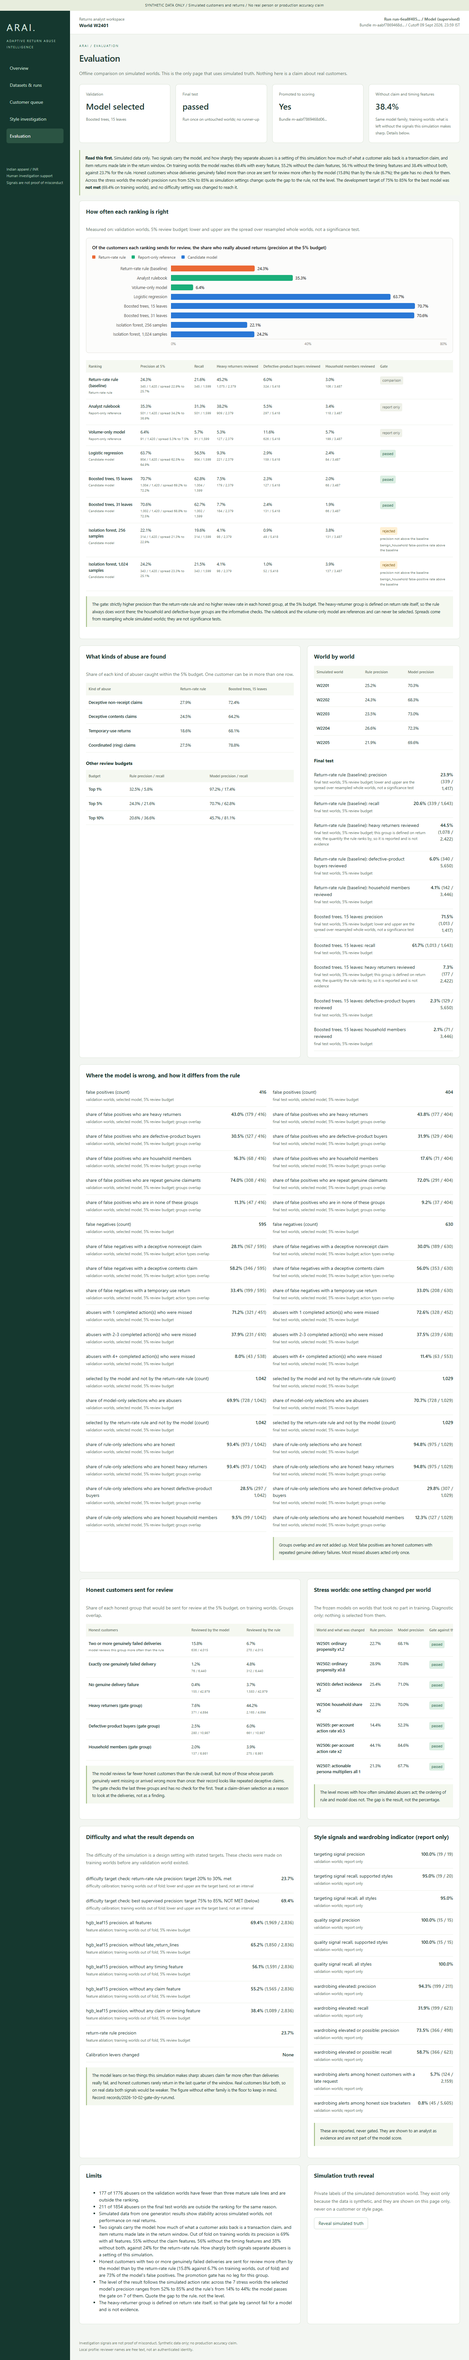
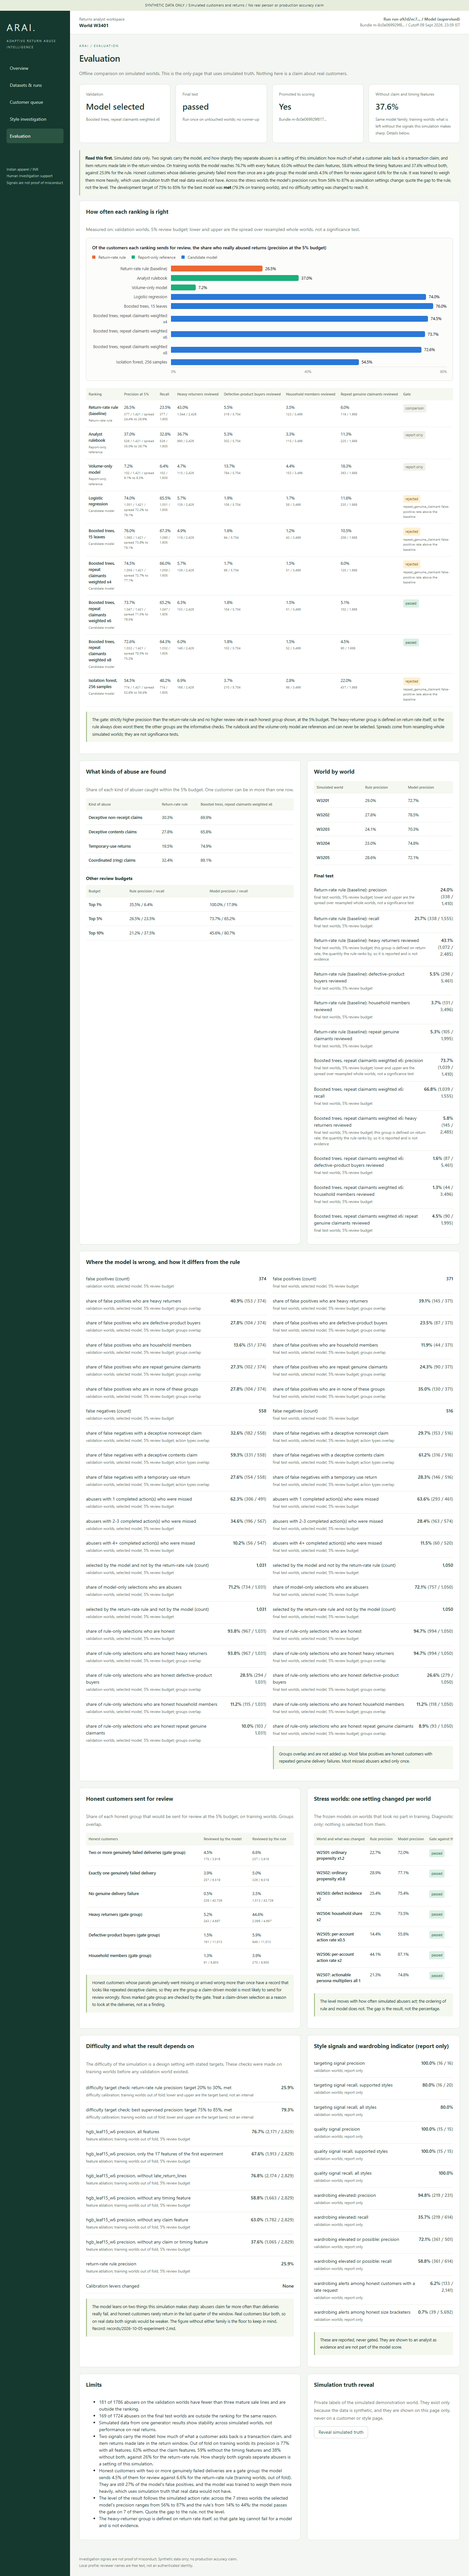
Experiment 2 passed its final test; record, published result and walkthrough
EXP-20261005-02, run under the contract of a7b79aa with no uncommitted
change: hgb_leaf15_w6 (boosted trees, 43 features, honest repeat genuine
claimants weighted six times in training) was selected on validation at .737
against .265 for the return-rate rule and passed the single final test at
.737 against .240, with all four gate legs met. Honest repeat claimants are
reviewed at 4.5% against 5.3% for the rule on the test worlds and are 24% of
the model's false positives (72% in the first experiment). The unweighted
candidates and the one weighted four times were rejected on the new leg.

The 0.75-0.85 development target is met on the out-of-fold training scores
it is defined on (.793 best candidate, .767 selected) with no calibration
lever changed, and not on validation or test; AM-45 stays open for the owner.

Record: records/2026-10-05-experiment-2.md. README results, acceptance
evidence for FEAT-AC-09, TRAIN-AC-06 and SEL-AC-07, and the browser
walkthrough against the new experiment (47 of 47 checks). 179 pytest.

Claude-Session: https://claude.ai/code/session_01AR1kbGnR365dbJxWoPjiW8

diff --git a/tests/e2e/walkthrough.py b/tests/e2e/walkthrough.py
@@ -172,11 +172,14 @@ with sync_playwright() as pw:
         "Isolation forest, 256 samples")))
     check("evaluation shows the error account and the calibration disclosure", "share of false positives" in text and "difficulty target check" in text)
     check("evaluation discloses the timing dependence", "without any timing feature" in text)
-    check("evaluation leads with both dependences and the honest group the model reviews more often",
-          "without the claim features" in text and "the gate has no check for them" in text and "quote the gap to the rule" in text)
+    check("evaluation leads with both dependences and says how honest repeat claimants are treated",
+          "without the claim features" in text and "quote the gap to the rule" in text
+          and any(phrase in text for phrase in ("are a gate group", "the gate has no check for them", "the gate checks this group")))
     check("evaluation shows honest-group review rates and the stress worlds",
-          "Two or more genuinely failed deliveries" in text and "model reviews this group more often than the rule" in text
+          "Two or more genuinely failed deliveries" in text and "Reviewed by the model" in text
           and "W2505: per-account action rate x0.5" in text and "W2506: per-account action rate x2" in text)
+    check("the scorecard shows every gate group of the experiment",
+          all(heading in text for heading in ("Heavy returners reviewed", "Household members reviewed", "Repeat genuine claimants reviewed")))
     check("truth is hidden until asked for", "Reveal simulated truth" in text and "abused returns in the simulation" not in text)
     shot(page, "10-evaluation")
     page.get_by_role("button", name="Reveal simulated truth").click()

diff --git a/records/2026-10-05-experiment-2.md b/records/2026-10-05-experiment-2.md
@@ -1,0 +1,143 @@
+# Experiment 2 (EXP-20261005-02): gate dry run, selection and the final test (2026-10-05)
+
+Contract: specification 2.0, decisions AM-45 to AM-48, recorded in commit a7b79aa before any world of this
+experiment existed. Every record below carries that commit with no uncommitted change, the scoring-code hash
+`b5a035cb34...`, the generator-code hash of the first experiment (the simulator is unchanged) and the manifest
+hashes of the worlds it used.
+
+What is new against EXP-20261002-01: fresh seeds for every world set; 43 features (the first 17 unchanged);
+candidates that weight honest repeat genuine claimants in training; a fourth gate leg for that group. How these
+were arrived at is in `2026-10-05-experiment-2-exploration.md`. No calibration lever was changed.
+
+All figures are precision at the 5% review budget unless stated. "Repeat claimants" means honest eligible
+customers with two or more genuinely failed units; the figure is the share of them sent for review.
+
+## 1. Gate dry run (training worlds W3101-W3110, out of fold)
+
+Recorded 2026-10-05T09:40:00Z, before any validation world existed.
+
+| Ranking | Precision | Recall | Heavy returners | Defective buyers | Households | Repeat claimants | Gate |
+|---|---|---|---|---|---|---|---|
+| Return-rate rule | 0.259 | 0.222 | 44.6% | 5.9% | 3.9% | 6.6% | reference |
+| logreg_c1 | 0.754 | 0.647 | 4.9% | 1.9% | 1.5% | 11.3% | fails the new leg |
+| hgb_leaf15 | 0.793 | 0.680 | 4.2% | 1.7% | 1.3% | 9.6% | fails the new leg |
+| hgb_leaf15_w4 | 0.781 | 0.670 | 4.9% | 1.4% | 1.2% | 5.2% | passes |
+| hgb_leaf15_w6 | 0.767 | 0.658 | 5.2% | 1.5% | 1.3% | 4.5% | passes |
+| hgb_leaf15_w8 | 0.759 | 0.651 | 5.5% | 1.5% | 1.2% | 4.0% | passes |
+| iforest_256 (in sample) | 0.538 | 0.461 | 6.8% | 3.9% | 2.5% | 21.3% | fails the new leg |
+| analyst rulebook (reference) | 0.375 | 0.322 | 37.0% | 5.5% | 3.8% | 11.4% | report only |
+| volume only (reference) | 0.078 | 0.067 | 4.5% | 14.4% | 5.1% | 19.0% | report only |
+
+**Development target (AM-45).** The target is defined on these scores: return-rate rule 0.20-0.30, best supervised
+candidate 0.75-0.85. Achieved: rule 0.259, best supervised candidate 0.793. Both are inside the band, with no
+calibration lever changed; the gain over the first experiment's 0.694 comes from the 26 new features. The best
+candidate that also passes the gate is `hgb_leaf15_w4` at 0.781, also inside the band. These training worlds are
+a little easier than the first experiment's (rule 0.259 against 0.237), which accounts for about two points.
+
+## 2. What the result depends on (training worlds, out of fold, selected candidate)
+
+| `hgb_leaf15_w6` with | Precision |
+|---|---|
+| all 43 features | 0.767 |
+| only the 17 features of the first experiment | 0.676 |
+| without any timing feature | 0.588 |
+| without any claim feature | 0.630 |
+| without any claim or timing feature | 0.376 |
+| (return-rate rule) | 0.259 |
+
+Honest groups sent for review, model against rule: repeat claimants 4.5% against 6.6%; one genuine failure 3.9%
+against 5.0%; no genuine failure 0.5% against 3.5%; heavy returners 5.2% against 44.6%; defective buyers 1.5%
+against 5.9%; households 1.3% against 3.9%. Repeat claimants are 27% of the model's false positives (12% of the
+rule's); in the first experiment they were 73%.
+
+## 3. Stress worlds (frozen estimators, diagnostic)
+
+| World | Rule | hgb_leaf15 | w4 | w6 | w8 |
+|---|---|---|---|---|---|
+| W2501 ordinary propensity x1.2 | 0.227 | 0.762 fails | 0.734 | 0.720 | 0.720 |
+| W2502 ordinary propensity x0.8 | 0.289 | 0.799 fails | 0.796 | 0.771 | 0.775 |
+| W2503 defect incidence x2 | 0.254 | 0.764 fails | 0.761 | 0.754 | 0.754 |
+| W2504 household share x2 | 0.223 | 0.753 fails | 0.739 | 0.735 | 0.725 |
+| W2505 action rate x0.5 | 0.144 | 0.579 fails | 0.554 fails | 0.558 | 0.561 |
+| W2506 action rate x2 | 0.441 | 0.899 | 0.874 | 0.871 | 0.860 |
+| W2507 persona multipliers all 1 | 0.213 | 0.759 fails | 0.738 | 0.748 | 0.727 |
+
+"fails" means the four-leg gate, always on the new leg. `w6` and `w8` pass on all seven worlds, `w4` on six. The
+level still follows the simulated action rate (0.56 to 0.87 for `w6`).
+
+## 4. Validation and selection (W3201-W3205)
+
+Selection frozen 2026-10-05T09:44:55Z. The validation worlds were generated after the dry-run record, by the
+generator and configuration of the training worlds (checked in code).
+
+| Ranking | Precision | Recall | Heavy returners | Defective buyers | Households | Repeat claimants | Gate |
+|---|---|---|---|---|---|---|---|
+| Return-rate rule | 0.265 | 0.235 | 43.0% | 5.5% | 3.6% | 6.0% | reference |
+| logreg_c1 | 0.740 | 0.655 | 5.7% | 1.9% | 1.7% | 11.6% | rejected |
+| hgb_leaf15 | 0.760 | 0.673 | 4.9% | 1.7% | 1.2% | 10.5% | rejected |
+| hgb_leaf15_w4 | 0.745 | 0.660 | 5.7% | 1.7% | 1.5% | 6.04% | rejected (rule 5.99%) |
+| **hgb_leaf15_w6** | **0.737** | 0.652 | 6.3% | 1.8% | 1.5% | 5.1% | **passed, selected** |
+| hgb_leaf15_w8 | 0.726 | 0.643 | 6.0% | 1.8% | 1.5% | 4.5% | passed |
+| iforest_256 | 0.545 | 0.482 | 6.9% | 3.7% | 2.8% | 22.0% | rejected |
+
+`hgb_leaf15_w4` missed the new leg by one customer in two thousand, as the exploration warned it might. The gate
+is a point rule; it was applied as written.
+
+Selected model per world: 0.727, 0.785, 0.703, 0.748, 0.721 (rule 0.290, 0.278, 0.241, 0.230, 0.286). Spread over
+resampled worlds: 0.715 to 0.765; difference from the rule 0.441 to 0.502. Recall by kind of abuse: non-receipt
+0.70, contents 0.66, temporary use 0.75, coordinated 0.89. At the 1% budget every reviewed customer is an abuser
+(precision 1.000); at 10%, precision 0.456 and recall 0.807. 181 of 1,786 abusers have too little history to rank.
+
+## 5. The final test (W3301-W3305), run once
+
+Recorded 2026-10-05T09:47:30Z. The test worlds were generated after the selection was frozen; the model file was
+verified against the hash frozen at selection.
+
+| Ranking | Precision | Recall | Heavy returners | Defective buyers | Households | Repeat claimants | Gate |
+|---|---|---|---|---|---|---|---|
+| Return-rate rule | 0.240 | 0.217 | 43.1% | 5.5% | 3.8% | 5.3% | reference |
+| **hgb_leaf15_w6** | **0.737** | 0.668 | 5.8% | 1.6% | 1.3% | 4.5% | **passed** |
+
+**Final test status: passed.** Per world 0.777, 0.721, 0.770, 0.729, 0.687 (rule 0.286, 0.236, 0.240, 0.214, 0.222).
+Spread 0.709 to 0.765; difference from the rule 0.478 to 0.516. Recall by kind: non-receipt 0.73, contents 0.66,
+temporary use 0.76, coordinated 0.88. 169 of 1,724 abusers are outside the ranking.
+
+Errors on the test worlds: 371 false positives, of which 90 are repeat genuine claimants (24%; 72% in the first
+experiment), 145 heavy returners, 87 defective buyers, 44 household members, 130 in none of these groups. Abusers
+missed: 293 of 461 with one completed action, 163 of 574 with two or three, 60 of 520 with four or more.
+
+In one of the five test worlds taken alone (W3304) the model reviews repeat claimants more often than the rule
+(6.5% against 5.9%); pooled, which is what the gate reads, it does not.
+
+## 6. Against the first experiment
+
+| | EXP-20261002-01 | EXP-20261005-02 |
+|---|---|---|
+| Test precision, model / rule | 0.715 / 0.239 | 0.737 / 0.240 |
+| Test recall | 0.617 | 0.668 |
+| Temporary-use recall (test) | 0.67 | 0.76 |
+| Repeat claimants reviewed, model / rule (test) | not gated; 15.8% / 6.7% on training worlds | 4.5% / 5.3% |
+| Repeat claimants among false positives (test) | 72% | 24% |
+| Gate legs | 3 | 4 |
+| Development target on training worlds (0.75-0.85) | 0.694, not met | 0.793 best candidate, 0.767 selected: met |
+
+The two experiments ran on different worlds, so differences of a point or two are world-to-world variation. The
+gain in precision is modest; the change that matters is whom the model wrongly reviews.
+
+## 7. What may and may not be said
+
+- The model passed a stricter gate than before, on untouched worlds, once.
+- The development target is met on the scores it is defined on (out-of-fold training). On validation and test
+  the selected model is at 0.737, below 0.75. Say both.
+- The weighting uses simulation truth in training. Real data has no such truth; a real deployment would need
+  adjudicated claims or would have to accept the unweighted model's behaviour toward this group.
+- Two signal families still carry the model (0.376 without claims and timing), and the level still follows the
+  simulated action rate. Quote the gap to the rule, not the level.
+- Simulated data from one generator. Nothing here is a claim about real returns.
+
+## 8. Publication
+
+`arai publish --demo-world W3401` on 2026-10-05: the current feature code reproduced the frozen features of
+W3101 value for value; bundle `m-8c0e069929f81739c1321e38` (candidate `hgb_leaf15_w6`) is active, pointer version
+4, baseline `b-5cd41d54f17679082398fafa`. Bundles of the first experiment remain on disk and are refused by this
+feature contract, as recorded in AM-47.

diff --git a/README.md b/README.md
@@ -76,7 +76,7 @@ uv run python tests/e2e/walkthrough.py     # browser walkthrough against a runni
 ### Where things are
 
 - `src/arai/generator/` builds a synthetic world; `validation.py` checks an operational snapshot against the contract.
-- `src/arai/features.py` computes the 17 model features and the evidence; `modeling.py`, `evaluation.py`,
+- `src/arai/features.py` computes the 43 model features and the evidence; `modeling.py`, `evaluation.py`,
   `selection.py`, `experiment.py` train, evaluate and select; `ablation.py` measures what the result depends on
   and which honest groups are sent for review; `contract.py` reads the numbers the specification fixes.
 - `src/arai/bundles.py`, `publishing.py` and `src/arai/service/` are the serving side: immutable bundles, PostgreSQL,
@@ -92,13 +92,20 @@ uv run python tests/e2e/walkthrough.py     # browser walkthrough against a runni
 
 ### Results in one paragraph
 
-On five untouched simulated test worlds the selected model (boosted trees) is right about 71.5% of the customers
-it sends for review at a 5% review budget, against 23.9% for a return-rate rule and about 35% for a hand-written
-rulebook (validation). The gap is the result, not the level: the level follows how often simulated abusers act
-(52% to 85% across the stress worlds, with the rule at 14% to 44%). Two signals carry the model, claims and late
-returns; on training worlds it reaches 55% without the claim features, 56% without the timing features and 38%
-without both. Honest customers whose deliveries genuinely failed more than once are sent for review more often by
-the model than by the rule (15.8% against 6.7%), and the gate has no check for them. The development target of
-75-85% for the best model was not met (69% on training worlds) and stays open; a new experiment on branch `v3`
-adds a gate check for those honest repeat claimants. This is a result about one simulation, not about real
-returns. See `records/2026-10-02-final-test.md` and `records/2026-10-05-principal-ml-review.md`.
+Two experiments have been run; the second (EXP-20261005-02, branch `v3`) is the published one.
+
+On five untouched simulated test worlds its selected model (boosted trees, 43 features) is right about 73.7% of
+the customers it sends for review at a 5% review budget, against 24.0% for a return-rate rule and about 37% for a
+hand-written rulebook (validation). It passed a four-leg gate: it reviews honest heavy returners, defective-product
+buyers, household members and customers whose deliveries genuinely failed more than once no more often than the
+rule does. That last group is the one the first experiment's model reviewed more than twice as often as the rule
+(15.8% against 6.7%); here it is 4.5% against 5.3% on the test worlds.
+
+The gap is the result, not the level: the level follows how often simulated abusers act (56% to 87% across the
+stress worlds, with the rule at 14% to 44%). Two signal families carry the model, claims and return timing; on
+training worlds it reaches 63% without the claim features, 59% without the timing features and 38% without both.
+The model was trained to weigh honest repeat claimants more heavily, which uses simulation truth that real data
+would not have. The development target of 75-85% is met on the out-of-fold training scores it is defined on (79%
+best candidate, 77% selected) and not on validation or test (73.7%). This is a result about one simulation, not
+about real returns. See `records/2026-10-05-experiment-2.md`; the first experiment (71.5% against 23.9%, three-leg
+gate) is in `records/2026-10-02-final-test.md` and its review in `records/2026-10-05-principal-ml-review.md`.
